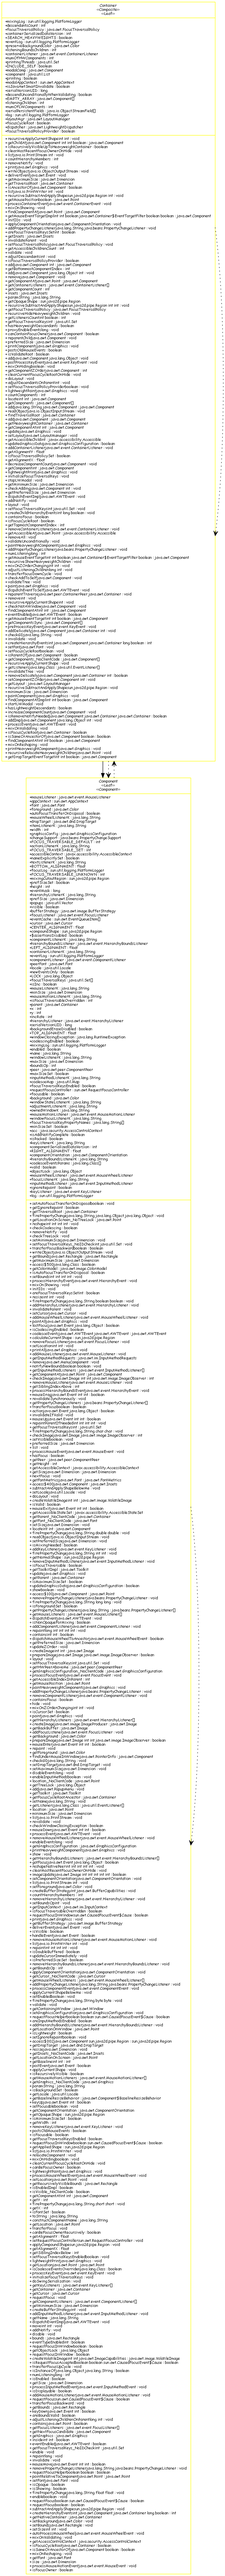
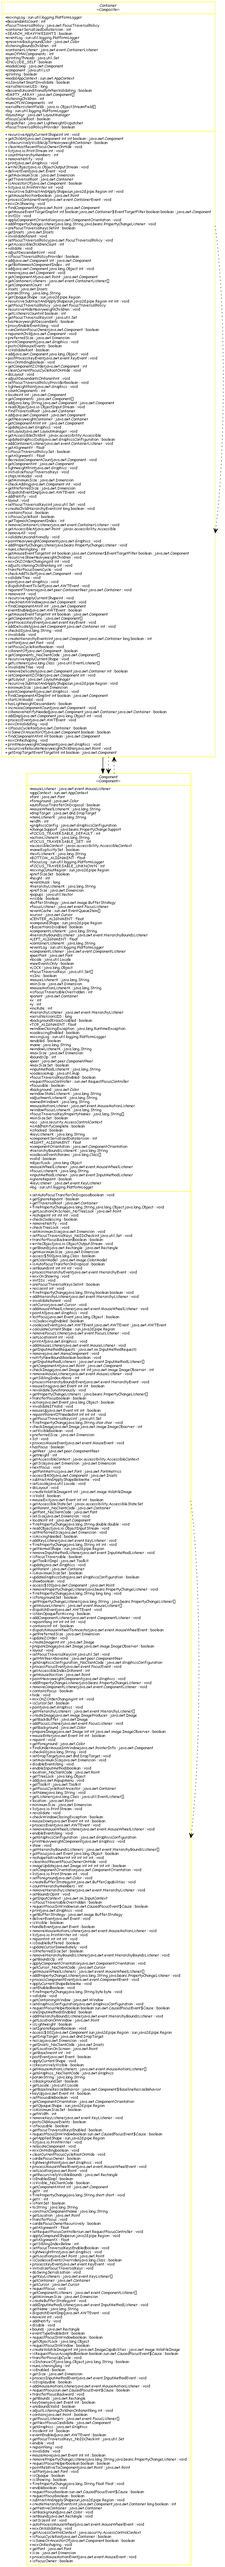
fixed small bug, added more docs

Changed region(s): [[0.0301, 0.0, 0.6316, 0.9967]]

diff --git a/src/dot/CompositeBuilder.java b/src/dot/CompositeBuilder.java
@@ -108,7 +108,9 @@ public class CompositeBuilder extends APatternBuilder {
 								record.getBaseRecord().setBoxColor("yellow");
 								//time to find leafs
 								for(IClassRecord possibleLeafRecords: recordHashMap.values()){
-									if(implementingClass.isAssignableFrom(Class.forName(possibleLeafRecords.getBaseRecord().getClassName().replace("/",".")))){
+									if(implementingClass.isAssignableFrom(Class.forName(possibleLeafRecords.getBaseRecord().getClassName().replace("/",".")))
+											&&implementsRecord!=possibleLeafRecords.getBaseRecord()
+											&&record.getBaseRecord()!=possibleLeafRecords.getBaseRecord()){
 										possibleLeafRecords.getBaseRecord().addPattern("Leaf");
 										possibleLeafRecords.getBaseRecord().setBoxColor("yellow");
 									}
